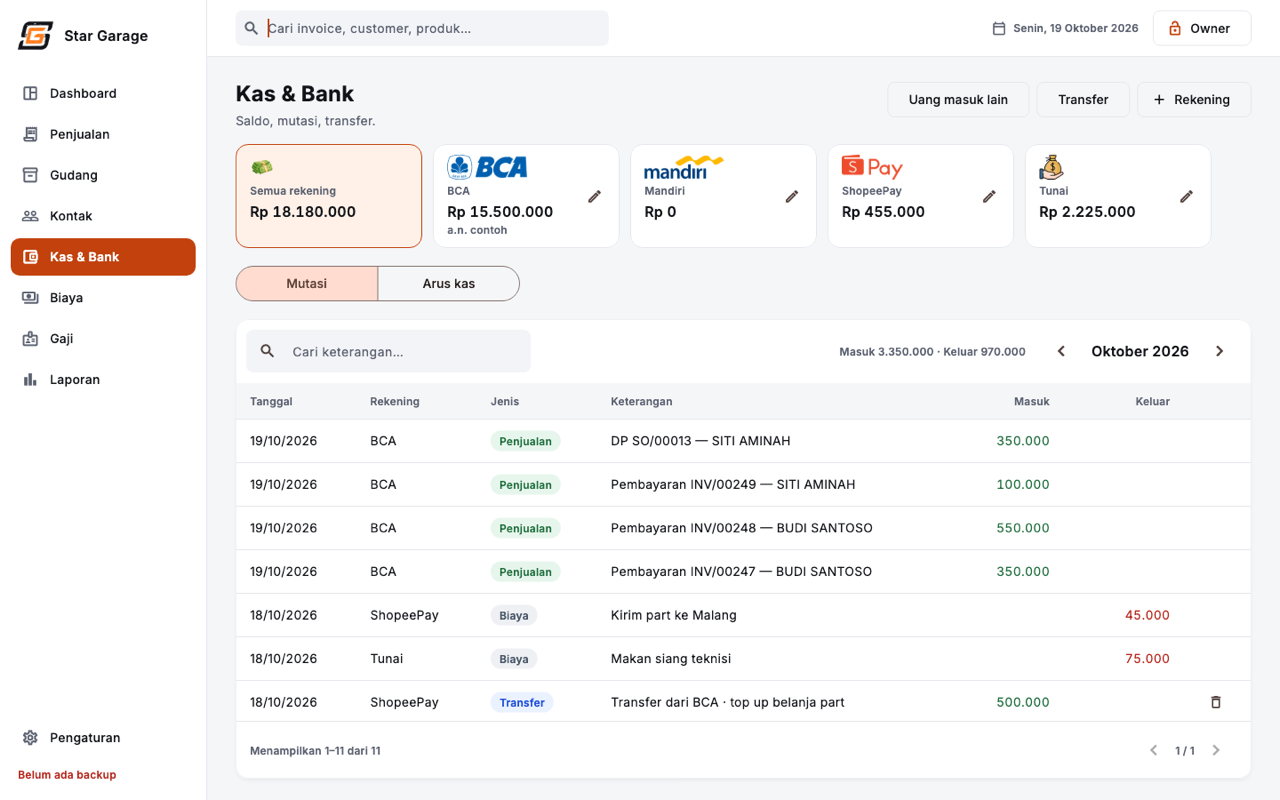
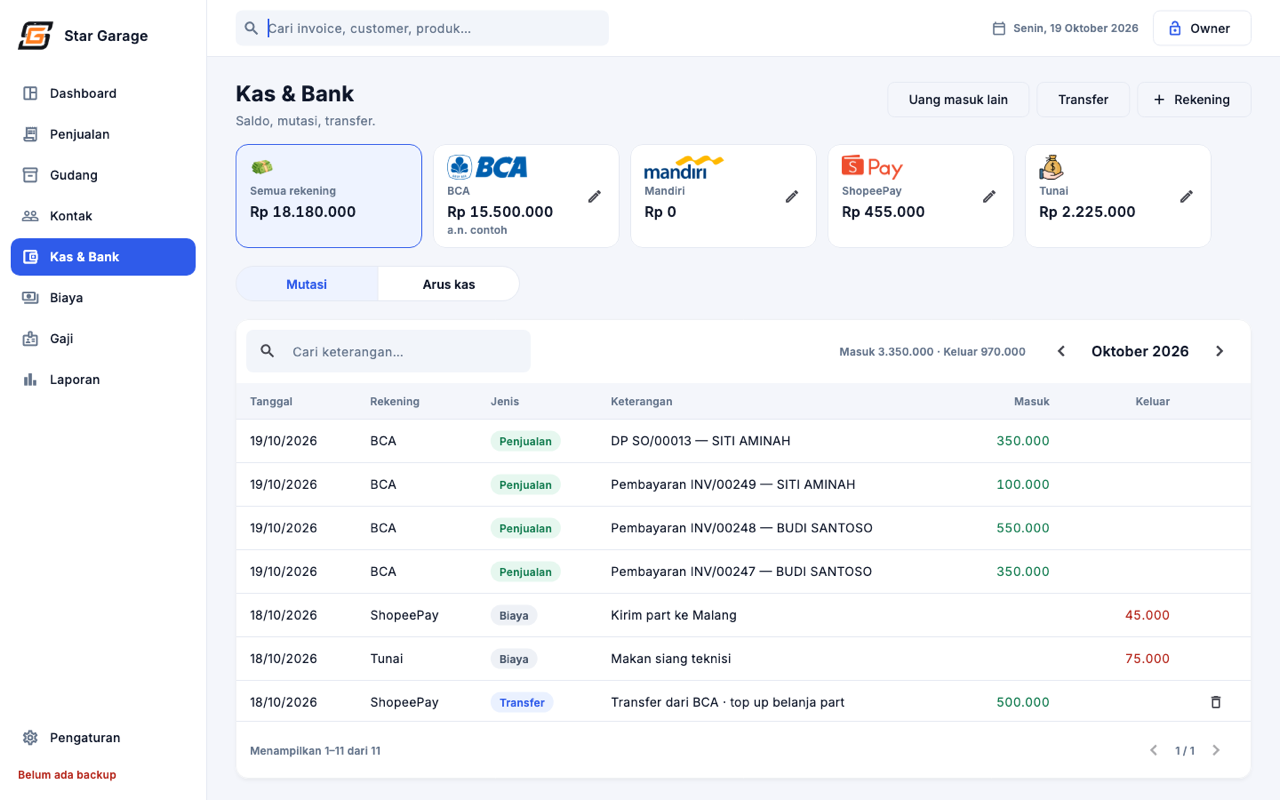
Palet mengikuti referensi: biru royal untuk menu aktif & tombol utama, navy/slate, KPI pastel; merah hanya untuk bahaya
Claude-Session: https://claude.ai/code/session_01EBsJukG2KPotbSLhRFhcqS

diff --git a/lib/core/theme.dart b/lib/core/theme.dart
@@ -1,26 +1,27 @@
 import 'package:flutter/material.dart';
 
-/// Token desain — sumber: docs/design.md. Layar tidak boleh menulis warna/ukuran mentah.
+/// Token desain — sumber: docs/design.md (palet mengikuti referensi: biru royal, slate, pastel).
+/// Layar tidak boleh menulis warna/ukuran mentah. Merah (`danger`) hanya untuk bahaya/error.
 abstract final class C {
-  static const bg = Color(0xFFF5F6F8);
+  static const bg = Color(0xFFF4F6FB);
   static const surface = Color(0xFFFFFFFF);
-  static const border = Color(0xFFE4E7EC);
-  static const field = Color(0xFFF2F4F7); // latar input
-  static const ink = Color(0xFF111318);
-  static const inkMuted = Color(0xFF5B6170);
-  static const primary = Color(0xFFC2410C);
-  static const primarySoft = Color(0xFFFFF1E8);
-  static const brandOrange = Color(0xFFF07A1E);
+  static const border = Color(0xFFE5E9F2);
+  static const field = Color(0xFFF2F5FA); // latar input
+  static const ink = Color(0xFF0F172A);
+  static const inkMuted = Color(0xFF64748B);
+  static const primary = Color(0xFF2F5BEA);
+  static const primarySoft = Color(0xFFEEF3FF);
   static const danger = Color(0xFFB42318);
 }
 
 /// Pasangan latar/teks untuk pill status.
 enum Tone {
-  success(Color(0xFFE7F6EC), Color(0xFF1B6B3A)),
-  warning(Color(0xFFFFF4DB), Color(0xFF8A5A00)),
+  success(Color(0xFFE6F7EF), Color(0xFF0F7A4D)),
+  warning(Color(0xFFFFF4DC), Color(0xFF8F5B00)),
   danger(Color(0xFFFDECEC), Color(0xFFB42318)),
-  info(Color(0xFFEAF1FF), Color(0xFF1D4ED8)),
-  neutral(Color(0xFFEEF0F3), Color(0xFF475467));
+  info(Color(0xFFEAF1FF), Color(0xFF2F5BEA)),
+  purple(Color(0xFFF1EDFE), Color(0xFF6A47E0)),
+  neutral(Color(0xFFEEF1F6), Color(0xFF475569));
 
   const Tone(this.bg, this.fg);
   final Color bg;
@@ -105,6 +106,16 @@ ThemeData buildTheme() {
     dialogTheme: DialogThemeData(
       backgroundColor: C.surface,
       shape: RoundedRectangleBorder(borderRadius: BorderRadius.circular(S.rCard)),
+    ),
+    segmentedButtonTheme: SegmentedButtonThemeData(
+      style: ButtonStyle(
+        backgroundColor: WidgetStateProperty.resolveWith(
+          (s) => s.contains(WidgetState.selected) ? C.primarySoft : C.surface,
+        ),
+        foregroundColor: WidgetStateProperty.resolveWith((s) => s.contains(WidgetState.selected) ? C.primary : C.ink),
+        side: const WidgetStatePropertyAll(BorderSide(color: C.border)),
+        textStyle: WidgetStatePropertyAll(T.body.copyWith(fontWeight: FontWeight.w600)),
+      ),
     ),
     snackBarTheme: const SnackBarThemeData(behavior: SnackBarBehavior.floating, width: 480),
     pageTransitionsTheme: const PageTransitionsTheme(

diff --git a/lib/modules/dashboard/dashboard_page.dart b/lib/modules/dashboard/dashboard_page.dart
@@ -50,7 +50,7 @@ class _DashboardPageState extends State<DashboardPage> {
                   ),
                   KpiCard(
                     icon: Icons.trending_up,
-                    tone: Tone.success,
+                    tone: Tone.purple,
                     label: 'Omzet bulan ini',
                     value: rupiah(c.monthOmzet),
                     hint: _delta(c.monthOmzet, c.lastMonthToDate.value),
@@ -58,7 +58,7 @@ class _DashboardPageState extends State<DashboardPage> {
                   ),
                   KpiCard(
                     icon: Icons.receipt_long_outlined,
-                    tone: c.overdueCount > 0 ? Tone.danger : Tone.warning,
+                    tone: Tone.warning, // merah hanya di teks "lewat tempo"
                     label: 'Belum lunas',
                     value: rupiah(c.unpaidTotal),
                     hint: '${c.unpaid.length} invoice · ${c.overdueCount} lewat tempo',
@@ -66,7 +66,7 @@ class _DashboardPageState extends State<DashboardPage> {
                   ),
                   KpiCard(
                     icon: Icons.inventory_2_outlined,
-                    tone: c.lowStock.isEmpty ? Tone.neutral : Tone.warning,
+                    tone: Tone.success,
                     label: 'Stok menipis',
                     value: '${c.lowStock.length} barang',
                     hint: c.lowStock.isEmpty ? 'Aman' : 'Perlu belanja',
@@ -246,10 +246,10 @@ class _SalesChart extends StatelessWidget {
                             spots: [for (final (i, p) in points.indexed) FlSpot(i.toDouble(), p.omzet.toDouble())],
                             isCurved: true,
                             preventCurveOverShooting: true,
-                            color: C.brandOrange,
+                            color: C.primary,
                             barWidth: 3,
                             dotData: const FlDotData(show: false),
-                            belowBarData: BarAreaData(show: true, color: C.brandOrange.withValues(alpha: 0.12)),
+                            belowBarData: BarAreaData(show: true, color: C.primary.withValues(alpha: 0.12)),
                           ),
                         ],
                       ),

diff --git a/lib/core/ui.dart b/lib/core/ui.dart
@@ -498,7 +498,9 @@ class KpiCard extends StatelessWidget {
   @override
   Widget build(BuildContext context) {
     final number = Text(value, style: T.kpi.copyWith(fontSize: 22), maxLines: 1, overflow: TextOverflow.ellipsis);
+    // Seperti referensi: seluruh kartu pastel, ikon di kotak pastel yang sedikit lebih tua.
     return Card(
+      color: Color.lerp(tone.bg, C.surface, 0.25),
       child: Padding(
         padding: const EdgeInsets.all(S.lg),
         child: Row(
@@ -506,7 +508,10 @@ class KpiCard extends StatelessWidget {
             Container(
               width: 44,
               height: 44,
-              decoration: BoxDecoration(color: tone.bg, borderRadius: BorderRadius.circular(12)),
+              decoration: BoxDecoration(
+                color: Color.lerp(tone.bg, tone.fg, 0.14),
+                borderRadius: BorderRadius.circular(12),
+              ),
               child: Icon(icon, color: tone.fg, size: 22),
             ),
             const SizedBox(width: S.md),

diff --git a/lib/modules/biaya/biaya_page.dart b/lib/modules/biaya/biaya_page.dart
@@ -58,7 +58,7 @@ class BiayaPage extends StatelessWidget {
             ),
             KpiCard(
               icon: Icons.home_outlined,
-              tone: Tone.neutral,
+              tone: Tone.purple,
               label: 'Pribadi',
               value: rupiah(c.total(personal: true)),
               hint: 'Di bawah laba bersih usaha',

diff --git a/lib/modules/gaji/gaji_page.dart b/lib/modules/gaji/gaji_page.dart
@@ -87,7 +87,7 @@ class _GajiState extends State<_Gaji> {
             ),
             KpiCard(
               icon: Icons.handyman_outlined,
-              tone: Tone.neutral,
+              tone: Tone.purple,
               label: 'Insentif teknisi',
               value: rupiah(c.slips.fold(0, (t, s) => t + s.incentive)),
             ),

diff --git a/docs/design.md b/docs/design.md
@@ -1,12 +1,12 @@
 # Aturan Desain — garage-erp-desktop
 
-Sumber: `docs/referensi-ui.jpeg` (admin dashboard terang: sidebar putih, kartu putih, KPI pastel, tabel dengan pill status), `docs/logo-star-garage.jpeg` (oranye + hitam), screenshot app pusat (tab Barang/Jasa, Template/Import/Export, paginasi).
+Sumber: `docs/referensi-ui.jpeg` (admin dashboard terang: sidebar putih, menu aktif biru, kartu putih, KPI pastel, tabel dengan pill status), `docs/logo-star-garage.jpeg` (logo saja), screenshot app pusat (tab Barang/Jasa, Template/Import/Export, paginasi).
 Platform: Flutter desktop (Windows/macOS), **offline**. Semua aturan di bawah diwujudkan di **satu file `lib/core/theme.dart`** (token + `ThemeData`); layar tidak boleh menulis warna/ukuran mentah.
 
 ## 1. Prinsip
 
 1. **Ikuti referensi untuk layout & rasa**: terang, lega, kartu putih di atas latar abu sangat muda, banyak whitespace.
-2. **Warna brand dari logo**, bukan biru referensi: oranye sebagai aksen, hitam untuk teks. Nama bengkel & logo berasal dari Pengaturan, sehingga app tetap generik.
+2. **Palet mengikuti referensi** (keputusan owner 19 Okt): biru royal sebagai warna utama, teks navy/slate, KPI pastel. Oranye brand **hanya di logo**. **Merah hanya untuk bahaya/error** — tidak pernah untuk menu aktif atau tombol simpan.
 3. **Data dulu**: angka (Rupiah, stok, status) harus terbaca sekilas. Tidak ada dekorasi yang tidak membawa informasi (tanpa foto produk, ilustrasi, gradien).
 4. **Satu cara untuk satu hal**: satu jenis tabel, satu jenis form, satu jenis dialog di semua modul.
 5. **Hanya mode terang.** Dark mode tidak dibuat (bengkel siang hari, 1 PC).
@@ -15,24 +15,26 @@ Platform: Flutter desktop (Windows/macOS), **offline**. Semua aturan di bawah di
 
 | Token | Hex | Pakai untuk |
 |---|---|---|
-| `bg` | `#F5F6F8` | Latar aplikasi |
+| `bg` | `#F4F6FB` | Latar aplikasi (abu kebiruan) |
 | `surface` | `#FFFFFF` | Kartu, sidebar, tabel, dialog |
-| `border` | `#E4E7EC` | Garis kartu, pemisah baris tabel, input |
-| `ink` | `#111318` | Teks utama, angka |
-| `inkMuted` | `#5B6170` | Label, subjudul, teks sekunder (kontras ≥ 4.5:1 di `surface`) |
-| `primary` | `#C2410C` | Tombol utama, item sidebar aktif, link, fokus. Teks putih di atasnya = kontras ≥ 4.5:1 |
-| `primarySoft` | `#FFF1E8` | Latar item sidebar aktif, baris terpilih |
-| `brandOrange` | `#F07A1E` | **Hanya** aksen non-teks (ikon KPI, garis grafik) — tidak untuk latar teks putih |
+| `border` | `#E5E9F2` | Garis kartu, pemisah baris tabel |
+| `field` | `#F2F5FA` | Latar input |
+| `ink` | `#0F172A` | Teks utama, angka (navy) |
+| `inkMuted` | `#64748B` | Label, subjudul, teks sekunder (slate; kontras ≥ 4.5:1 di `surface`) |
+| `primary` | `#2F5BEA` | Tombol utama, menu aktif (blok solid, teks putih), link, fokus, garis grafik. Teks putih di atasnya ≥ 4.5:1 |
+| `primarySoft` | `#EEF3FF` | Hover menu, baris terpilih, segmen tab terpilih |
+| `danger` | `#B42318` | **Hanya** aksi destruktif, error, lewat jatuh tempo, stok minus |
 
-Status (pill = teks gelap di latar pastel):
+Nada pastel (`Tone`) — pill status & kartu KPI (kartu = latar pastel penuh, ikon di kotak pastel lebih tua):
 
 | Arti | Latar | Teks | Dipakai untuk |
 |---|---|---|---|
-| Sukses | `#E7F6EC` | `#1B6B3A` | Lunas, Ready Stock, Aktif |
-| Peringatan | `#FFF4DB` | `#8A5A00` | Dibayar Sebagian, Stok menipis |
-| Bahaya | `#FDECEC` | `#B42318` | Belum Lunas (lewat jatuh tempo), Stok habis/minus |
-| Info | `#EAF1FF` | `#1D4ED8` | Belum Lunas (belum jatuh tempo), Pemesanan terbuka |
-| Netral | `#EEF0F3` | `#475467` | Batal, Nonaktif, Jasa |
+| Sukses (mint) | `#E6F7EF` | `#0F7A4D` | Lunas, Ready Stock, Aktif; KPI stok/laba |
+| Peringatan (kuning) | `#FFF4DC` | `#8F5B00` | Dibayar Sebagian, Stok menipis; KPI belum lunas/belum dibayar |
+| Bahaya (merah) | `#FDECEC` | `#B42318` | Lewat jatuh tempo, Stok habis/minus |
+| Info (biru) | `#EAF1FF` | `#2F5BEA` | Belum Lunas (belum jatuh tempo), Pemesanan terbuka; KPI omzet hari ini, saldo |
+| Ungu | `#F1EDFE` | `#6A47E0` | KPI omzet bulan ini, insentif, pribadi (variasi seperti referensi) |
+| Netral | `#EEF1F6` | `#475569` | Batal, Nonaktif, Jasa |
 
 Status **tidak boleh dibedakan hanya dengan warna**: pill selalu berisi teks ("Lunas", "Habis").
 
@@ -103,7 +105,7 @@ Ukuran minimum teks 12. Tidak ada huruf kapital semua kecuali kode (SKU, nomor p
 - Maksimal 4 kartu per baris, tinggi disamakan. Angka owner-only (laba, saldo di Dashboard, nilai stok) tampil `••••` saat terkunci.
 
 ### Form
-- **Label di atas input** (widget `Labeled`), field **latar abu `#F2F4F7` tanpa garis**; fokus = garis `primary` 1,5 px; error = garis bahaya. Tidak memakai label melayang Material. Wajib = tanda `*`.
+- **Label di atas input** (widget `Labeled`), field **latar abu `#F2F4F7` tanpa garis**; fokus = garis `primary` (biru) 1,5 px; error = garis bahaya. Tidak memakai label melayang Material. Wajib = tanda `*`.
 - Teks label & bantuan **singkat** (1–3 kata). Aturan penting yang mencegah salah input tetap ditampilkan, sebagai teks bantuan kecil di bawah field/kartu, bukan di label. Error di bawah input, warna bahaya, kalimat jelas ("No. HP sudah dipakai BUDI").
 - **Input Rupiah**: ketik angka polos, tampil `2.250.000` saat fokus hilang; prefix `Rp`. Input diskon menerima `10%` lalu dikonversi ke Rupiah.
 - Tanggal: pemilih tanggal format `dd/MM/yyyy`.
@@ -121,9 +123,9 @@ Ukuran minimum teks 12. Tidak ada huruf kapital semua kecuali kode (SKU, nomor p
 - Aksi penting yang selesai (invoice/pemesanan baru) memakai **dialog sukses** berisi langkah berikutnya (Buka PDF, Kirim WA, Selesai).
 
 ### Tombol
-- **Utama** (`FilledButton` oranye): maks. **satu per layar/dialog**, untuk aksi paling sering (Simpan, Kasir/Invoice, Bayar). Paling kanan.
+- **Utama** (`FilledButton` biru): maks. **satu per layar/dialog**, untuk aksi paling sering (Simpan, Kasir/Invoice, Bayar). Paling kanan.
 - **Sekunder** (`OutlinedButton` netral): aksi lain, termasuk aksi owner yang jarang (+ Rekening, Backup sekarang, Export).
-- **Tersier** (`TextButton` oranye): tautan ringan (Lihat semua, Tambah baris).
+- **Tersier** (`TextButton` biru): tautan ringan (Lihat semua, Tambah baris).
 - **Destruktif** (`DangerButton`, garis merah): di **kiri, terpisah** dari Batal/Simpan (`dialogActions`), selalu lewat `confirmAction`.
   Di konfirmasi: tombol merah penuh dengan **kata kerja + objek** ("Hapus biaya", "Batalkan pembayaran"), bukan "Ya/Tidak".
 - Controller teks lokal di dialog **tidak di-dispose manual** setelah `showDialog`: dialog masih beranimasi menutup dan bisa dibangun ulang.
@@ -156,7 +158,7 @@ Semua elemen bisa dijangkau `Tab`, dengan **cincin fokus 2 px `primary`** yang t
 ## 10. Grafik
 
 - Di Dashboard & Laporan: garis (omzet/laba per waktu) dan batang (per kategori/rekening). Tidak ada pie/donut (referensi punya; batang lebih mudah dibandingkan).
-- Warna seri: `brandOrange` (utama), `#1D4ED8` (pembanding). Sumbu & grid `border`; label `inkMuted`.
+- Warna seri: `primary` biru dengan area biru muda; tooltip navy. Sumbu & grid `border`; label `inkMuted`.
 - Setiap grafik punya tabel angka di bawahnya (bisa di-export).
 
 ## 11. Tidak dipakai (sengaja)

diff --git a/PROGRESS.md b/PROGRESS.md
@@ -29,7 +29,8 @@ Last updated: 2026-10-19.
 | Dashboard | KPI, grafik omzet 12 bulan (fl_chart), belum lunas, terlaris, stok menipis; laba & saldo khusus owner | `8120669` |
 | KPI & teks | Kartu KPI di Penjualan/Gudang/Biaya/Gaji; label & subjudul dipangkas | `9076e8b` |
 | Tombol & feedback | Hierarki tombol (1 utama/layar, destruktif terpisah di kiri), konfirmasi berlabel kata kerja, notifikasi Berhasil/Periksa lagi/Gagal di overlay, dialog sukses invoice (PDF/WA) | `00bc081` |
-| Kunci saldo | Saldo Kas & Bank khusus owner (repo menolak tanpa PIN); perbaikan urutan buka PIN (bug: PIN benar tidak membuka modul owner) | (commit ini) |
+| Kunci saldo | Saldo Kas & Bank khusus owner (repo menolak tanpa PIN); perbaikan urutan buka PIN (bug: PIN benar tidak membuka modul owner) | `c747716` |
+| Palet | Ikuti referensi: biru royal `#2F5BEA` (menu aktif, tombol utama, link, grafik), navy/slate, latar abu kebiruan, KPI pastel penuh (biru/ungu/kuning/mint); oranye hanya di logo; merah hanya bahaya | (commit ini) |
 
 Total test saat ini: **59 lulus**. **Semua modul R1 + upgrade UI selesai** — berikutnya: uji manual end-to-end di Mac, backlog B3, rilis .dmg pertama ke client. Importer dicoba dengan file asli client: produk 68 masuk / 1 ditolak (SKU kembar CB/001); customer 142 masuk / 6 digabung (no. HP sama: IQBAL–INDRO, JAHLIL×2, JAUHAR–JOHAN, NAFI–NAVI, UMAR×2, YAQIN) — semua sesuai temuan analisis awal.
 
